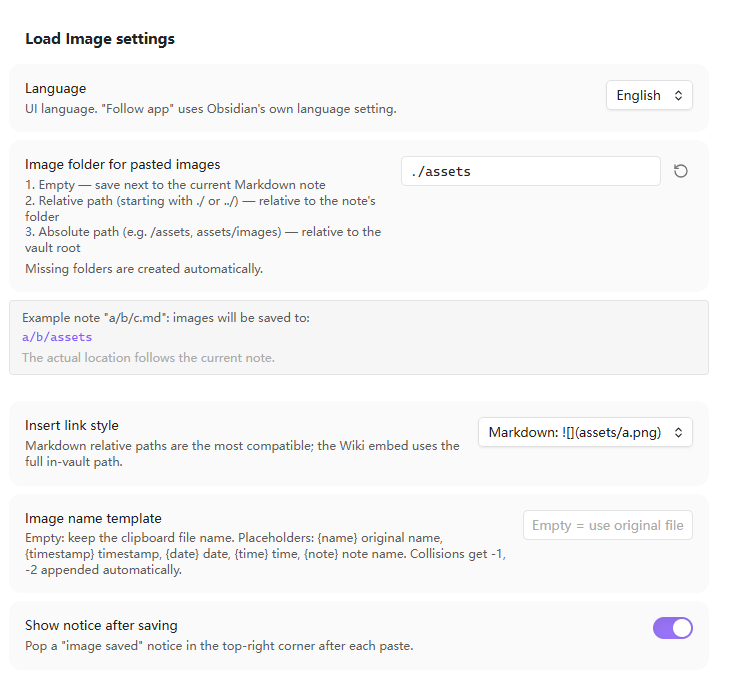
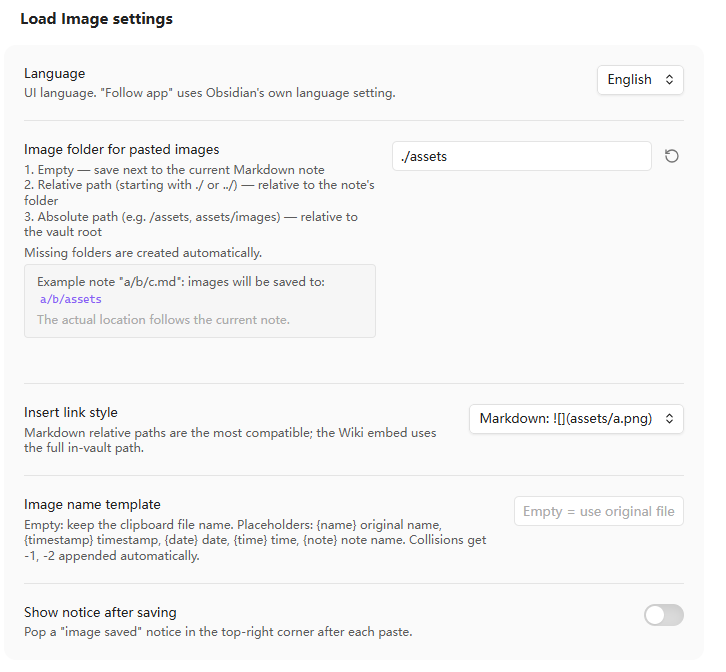
fix: raise minAppVersion to 1.8.7 and refresh the settings screenshot
The 1.1.2 review had one remaining error:

- `obsidianmd/no-unsupported-api`: `getLanguage()` needs Obsidian 1.8.7, but
  the manifest still declared 1.4.0. The plugin follows the app language
  through that API, so the manifest now declares 1.8.7 — the same minimum
  the Daily Report plugin uses. The runtime guard around the call is gone
  with it.
- docs/settings.png: screenshot of the new settings page.

Everything else in the 1.1.2 review passed (attestations, network requests,
dependencies, obfuscation, byte-for-byte build verification).

diff --git a/main.ts b/main.ts
@@ -73,18 +73,16 @@ export default class LoadImagePlugin extends Plugin {
   /**
    * The Obsidian UI language, used when the plugin language follows the app.
    *
-   * `getLanguage()` exists since Obsidian 1.8.7; on older versions the
-   * browser locale is used instead.
+   * `getLanguage()` needs Obsidian 1.8.7, which is this plugin's minimum
+   * version; on an unexpected failure the browser locale is used instead.
    */
   getAppLanguage(): string {
     try {
-      if (typeof getLanguage === "function") {
-        return getLanguage();
-      }
+      return getLanguage();
     } catch {
       // The API is not available on this Obsidian version.
+      return "";
     }
-    return "";
   }
 
   /** Re-render command palette labels after a language change. */
